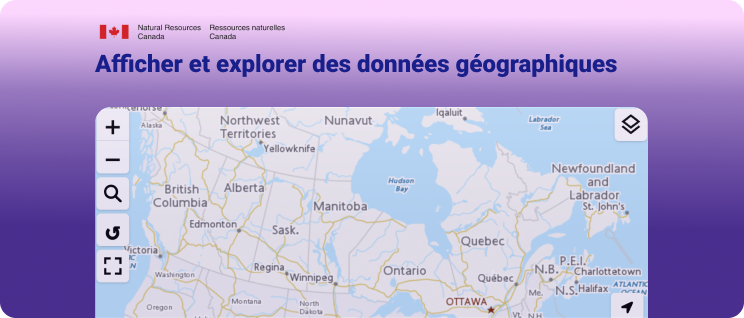
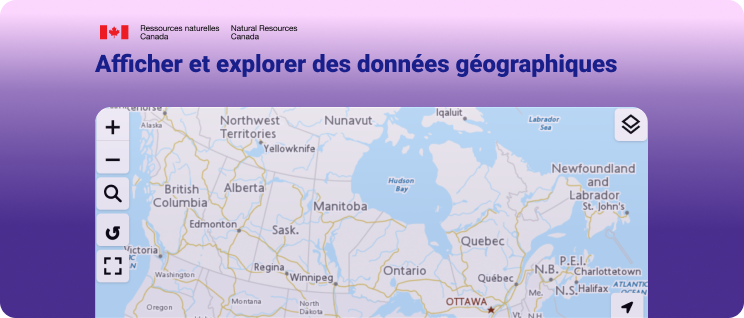
Add French

Changed region(s): [[0.1237, 0.0566, 0.4019, 0.1415]]

diff --git a/docs/src/components/extensions/messages.js b/docs/src/components/extensions/messages.js
@@ -1,0 +1,46 @@
+export const messages = {
+  en: {
+    list: {
+      tags: "Tags",
+      maintainer: "Maintainer:",
+      version: "Version:",
+      lastPublished: "Last published:"
+    },
+    display: {
+      noticeTitle: "Notice",
+      noticeDesc: "The extension and all guidance is maintained by",
+      install: "Install guide",
+      details: "Details",
+      version: "Version",
+      status: "Status",
+      lastPublished: "Last Published",
+      repo: "Repository",
+      purpose: "Extension purpose",
+      implementation: "Available implementation",
+      maintainer: "Maintainer",
+      contacts: "Primary Contacts"
+    }
+  },
+  fr: {
+    list: {
+      tags: "Tags",
+      maintainer: "Responsable de la maintenance :",
+      version: "Version :",
+      lastPublished: "Dernière publication :"
+    },
+    display: {
+      noticeTitle: "Notice",
+      noticeDesc: "L’extension et toute la documentation connexe sont maintenues par ",
+      install: "Guide d’installation",
+      details: "Détails",
+      version: "Version",
+      status: "État",
+      lastPublished: "Dernière publication",
+      repo: "Référentiel",
+      purpose: "Objectif de l’extension",
+      implementation: "Implémentation offerte",
+      maintainer: "Responsable de la maintenance",
+      contacts: "Personnes-ressources principales"
+    }
+  },
+};
